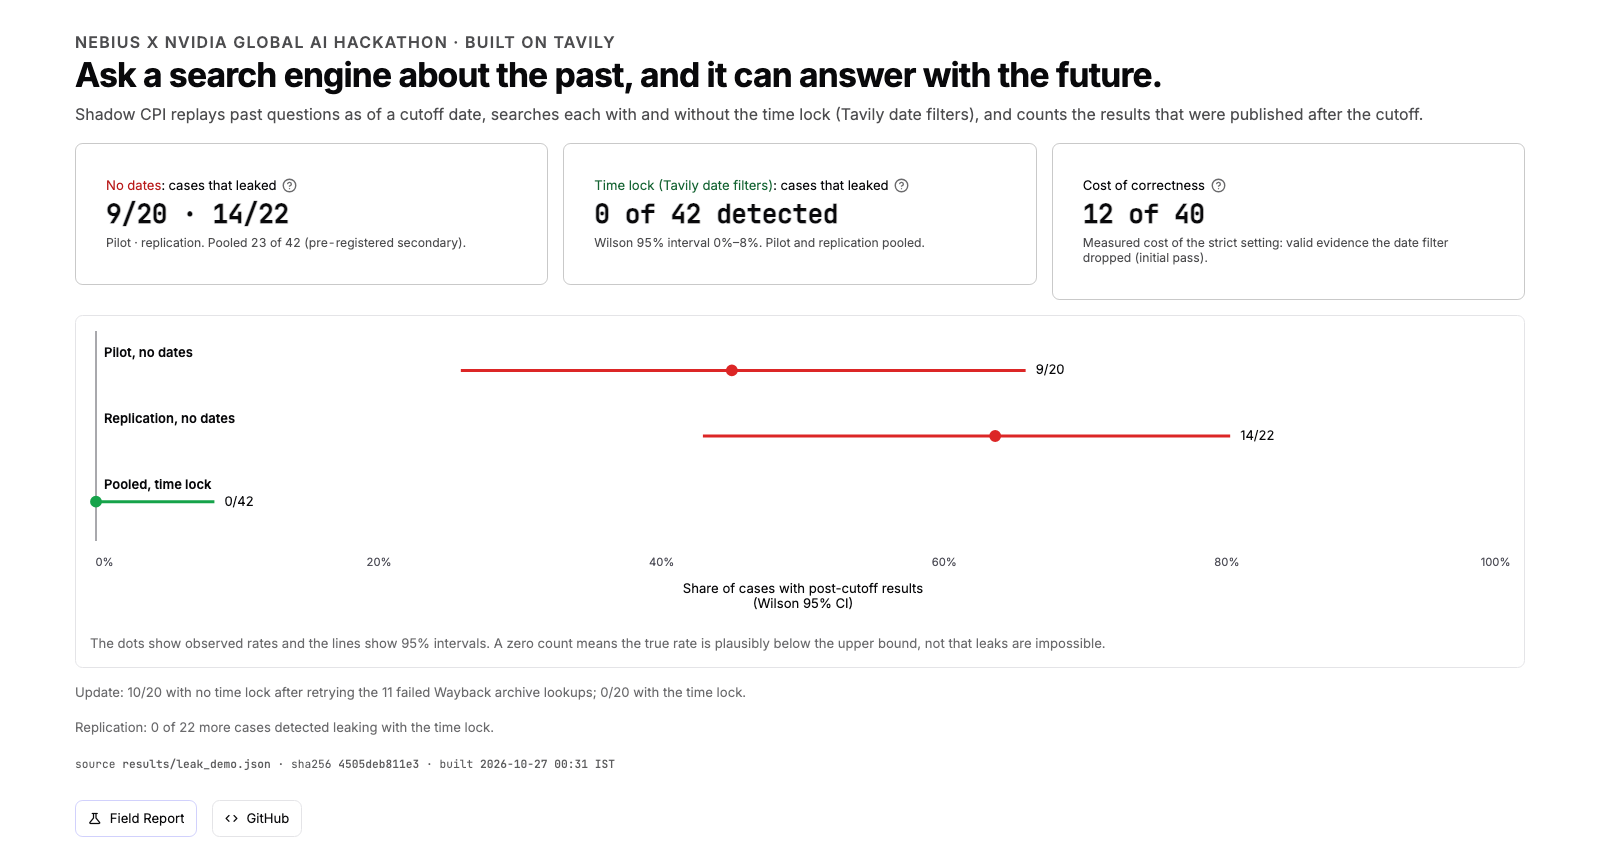
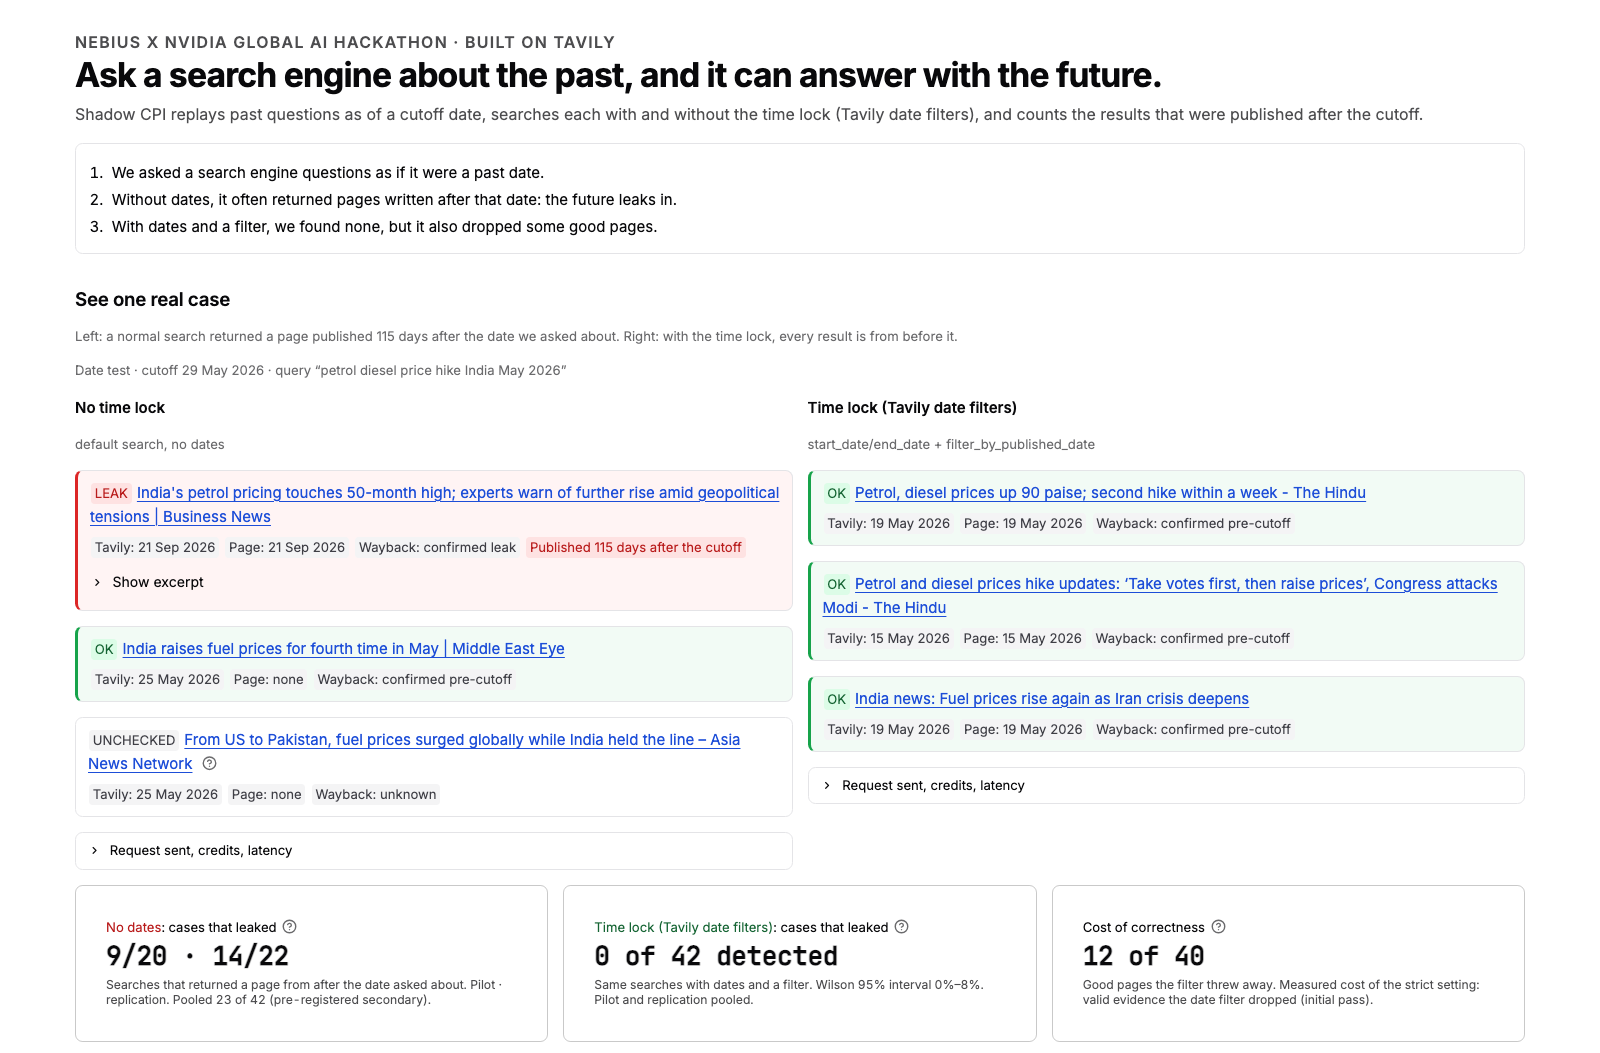
Leak demo: read as a story (plain-words box, one real case, captioned cards, chart lead-in, 'For developers'); gallery shot regenerated (display only)

diff --git a/app_pages/leak_demo.py b/app_pages/leak_demo.py
@@ -165,14 +165,26 @@ def search_column(col, title, note, s, test, key):
                        f"`{s['request_id']}`")
 
 
-def show_case(c):
-    st.markdown(f"#### {case_title(c)} {case_id(c)}")
+def show_case(c, slot="", heading=True):
+    """One case, both searches side by side. `slot` keeps widget keys unique when a case shows twice."""
+    if heading:
+        st.markdown(f"#### {case_title(c)} {case_id(c)}")
     st.caption(f"{c['test_name'].capitalize()} · cutoff {human(c['cutoff'])} · query “{c['query']}”"
                + (" · Page dates not read in the finance check." if c["test"] == "finance" else ""))
     left, right = st.columns(2)
-    search_column(left, OPEN, OPEN_NOTE, c["open"], c["test"], f"{c['id']}-open")
-    search_column(right, LOCKED, LOCKED_NOTE, c["locked"], c["test"], f"{c['id']}-locked")
+    search_column(left, OPEN, OPEN_NOTE, c["open"], c["test"], f"{slot}{c['id']}-open")
+    search_column(right, LOCKED, LOCKED_NOTE, c["locked"], c["test"], f"{slot}{c['id']}-locked")
 
+
+PLAIN_WORDS = ("1. We asked a search engine questions as if it were a past date.  \n"
+               "2. Without dates, it often returned pages written after that date: the future leaks in.  \n"
+               "3. With dates and a filter, we found none, but it also dropped some good pages.")
+CASE_CAPTION = ("Left: a normal search returned a page published {days} days after the date we asked about. "
+                "Right: with the time lock, every result is from before it.")
+CARD_CAPTIONS = ("searches that returned a page from after the date asked about", "same searches with dates and a filter",
+                 "good pages the filter threw away")
+CHART_LEAD = "**How sure are we?** Dots are what we saw; lines show the likely range, because the samples are small."
+DEVELOPERS = "For developers: add the time lock to your own Tavily calls"
 
 DATE_TEST = "results/date_field_test.json"
 DATE_LOCKED_ARM = "C"                         # tools/build_leak_demo.py TESTS["date"]["locked"]
@@ -202,7 +214,7 @@ def stat_cards(t):
     a, b, c = st.columns(3)
     with a:
         st.metric(":red[No dates]: cases that leaked", f"{o}/{n} · {rc['leak_cases']}/{rc['cases']}",
-                  delta=f"Pilot · replication. Pooled {pool['A']['leak_cases']} of {pool['A']['cases']} "
+                  delta=f"{CARD_CAPTIONS[0].capitalize()}. Pilot · replication. Pooled {pool['A']['leak_cases']} of {pool['A']['cases']} "
                         "(pre-registered secondary).",
                   delta_color="off", delta_arrow="off", border=True,
                   help="Cases where the plain search, with no date limits, returned a page the Wayback Machine shows "
@@ -212,14 +224,14 @@ def stat_cards(t):
                        "captured cannot be confirmed, and absence from Wayback is not proof it did not exist.")
     with b:
         st.metric(":green[Time lock (Tavily date filters)]: cases that leaked", f"{pk} of {pn} detected",
-                  delta=f"Wilson 95% interval {pct(lo)}–{pct(hi)}. Pilot and replication pooled.",
+                  delta=f"{CARD_CAPTIONS[1].capitalize()}. Wilson 95% interval {pct(lo)}–{pct(hi)}. Pilot and replication pooled.",
                   delta_color="off", delta_arrow="off", border=True,
                   help="Cases where the search with start_date, end_date and filter_by_published_date still returned a "
                        "confirmed leak. Date test only; the finance check is never added to it. A zero count means "
                        "the true rate is plausibly below the upper bound, not that leaks are impossible.")
     with c:
         st.metric("Cost of correctness", f"{lost} of {valid}",
-                  delta="Measured cost of the strict setting: valid evidence the date filter dropped (initial pass).",
+                  delta=f"{CARD_CAPTIONS[2].capitalize()}. Measured cost of the strict setting: valid evidence the date filter dropped (initial pass).",
                   delta_color="off", delta_arrow="off", border=True,
                   help="Of the valid results the plain search found in the date test, how many the dated search did "
                        "not return. This is the date test's own pre-registered initial pass, separate from the "
@@ -262,6 +274,7 @@ def interval_chart(t):
         x=alt.value(0), text="Group:N", tooltip=tip)
     end = base.mark_text(align="left", baseline="middle", dx=10, fontSize=13, color=ink).encode(
         x="hi:Q", text="label:N", tooltip=tip)
+    st.markdown(CHART_LEAD)
     with st.container(border=True, key="interval-chart"):
         altair_chart((zero + rule + dot + name + end).properties(height=300).configure_view(stroke=None),
                         width="stretch")
@@ -413,7 +426,7 @@ def pick_cases(cases, shown):
         st.caption(f"Default: {EXAMPLES.format(n=len(cases))}. Rule: {EXAMPLE_RULE}. Cases that qualify: "
                    f"{', '.join(shown)}" + (" (only one qualifies, so one is shown)." if len(shown) == 1 else "."))
     if mode == rec:
-        return shown
+        return [x for x in shown if x != FIRST] or shown
     return [st.selectbox("Case", list(by_id), format_func=lambda k: f"{case_title(by_id[k])} · {k}")]
 
 
@@ -422,6 +435,13 @@ data = read_json("results/leak_demo.json")
 if not data:
     st.info("Not built yet: run `python tools/build_leak_demo.py` (offline, 0 credits).")
     st.stop()
+by_id = {c["id"]: c for c in data["cases"]}
+with st.container(border=True, key="plain-words"):
+    st.markdown(PLAIN_WORDS)
+st.subheader("See one real case")
+f3 = by_id[FIRST]
+st.caption(CASE_CAPTION.format(days=next(r["days_after_cutoff"] for r in f3["open"]["results"] if r["leak"])))
+show_case(f3, slot="top-", heading=False)
 with st.container(key="hero"):
     stat_cards(data["totals"])
 interval_chart(data["totals"])
@@ -431,12 +451,11 @@ links()
 st.caption("In the forecast pipeline, NVIDIA Nemotron on Nebius Token Factory screens pages and cites quotes; code checks each cited number on the page.")
 how_we_know(data)
 with st.container(key="use-it"):
-    st.markdown("**Use it**")
+    st.markdown(f"**{DEVELOPERS}**")
     st.code(USE_IT, language="python", wrap_lines=True)
     st.markdown(f"[`timelock/`]({GITHUB_URL}/tree/main/timelock) (standard library only) · "
                 f"[![Open in Colab](https://colab.research.google.com/assets/colab-badge.svg)]({COLAB}) "
                 "reproduce the leak with your own Tavily key")
-by_id = {c["id"]: c for c in data["cases"]}
 shown = examples(data["cases"])
 cases = pick_cases(data["cases"], shown)
 for tab, cid in zip(st.tabs([tab_label(by_id[x]) for x in cases]) if len(cases) > 1

diff --git a/tools/build_gallery.py b/tools/build_gallery.py
@@ -133,19 +133,23 @@ def render(page, markup, path):
 
 
 def first_screen(page, url, path):
-    """The default page as a visitor first sees it: eyebrow, claim, subhead, the three result cards and the interval
-    chart (pre-registered initial pass). Sidebar and toolbar hidden, as in the other app shot."""
+    """The default page as a visitor first sees it: eyebrow, claim, subhead, the plain-words box, one real case and the
+    three result cards with their captions. Sidebar and toolbar hidden, as in the other app shot."""
     sys.path.insert(0, str(ROOT))
     from app_pages.common import BRAND_LINE
     page.goto(url.rstrip("/") + "/", wait_until="networkidle")
     page.add_style_tag(content=HIDE_CHROME)
     page.get_by_role("heading", name=BRAND_LINE, exact=True).wait_for(timeout=60_000)
     page.locator('.st-key-hero [data-testid="stMetric"]').nth(2).wait_for(timeout=60_000)   # the third card has drawn
-    page.locator('.st-key-interval-chart canvas, .st-key-interval-chart svg').first.wait_for(timeout=60_000)
     page.wait_for_timeout(1500)                                    # web fonts and the theme sync settle
     page.evaluate("window.scrollTo(0, 0)")
-    # the crop ends just below the Field Report / GitHub button row (full width, no partial code block under it)
-    bottom = page.locator(".st-key-brand-links").bounding_box()
+    # the crop ends just below the three cards and their captions (the chart and the rest follow below). Streamlit
+    # scrolls inside its own container, so the viewport is made tall enough to hold the whole crop.
+    bottom = page.locator(".st-key-hero").bounding_box()
+    height = int(bottom["y"] + bottom["height"] + 12)
+    page.set_viewport_size({"width": W, "height": height})
+    page.wait_for_timeout(1500)
+    bottom = page.locator(".st-key-hero").bounding_box()
     page.screenshot(path=str(path), clip={"x": 0, "y": 0, "width": W, "height": int(bottom["y"] + bottom["height"] + 12)})
 
 

diff --git a/tests/test_leak_demo.py b/tests/test_leak_demo.py
@@ -224,8 +224,7 @@ def test_default_examples_follow_the_rule_f3_first_r1_out():
     assert at.selectbox[0].value == f"Recommended examples ({len(ids)})"
     assert ids[0] == "F3" and sorted(ids) == sorted(want) and "R1" not in ids
     assert not any("F3" in o for o in at.selectbox[0].options)            # no case IDs in the dropdown's labels
-    if len(ids) > 1:
-        assert len(at.tabs) == len(ids)
+    assert len(at.tabs) == (len(ids) - 1 if len(ids) > 2 else 0)           # F3 is the case shown above the cards
     at.selectbox[0].set_value(f"All {len(DATA['cases'])} cases").run()
     every = at.selectbox[1].options
     assert any(o.endswith(" · R1") for o in every) and any(o.endswith(" · M7") for o in every)
@@ -300,9 +299,19 @@ def test_use_it_block_matches_the_readme_example():
 
 
 def test_tab_labels_are_short():
-    at = page()
-    labels = [t.label for t in at.tabs]
-    assert labels[:2] == ["Petrol hike · May 26 :gray[:small[F3]]", "RBI rate · Apr 26 :gray[:small[R2]]"]
+    """tab_label() read from the page source (the page runs on import): short item, month, small grey case ID."""
+    import ast
+    from datetime import date
+    src = (ROOT / "app_pages" / "leak_demo.py").read_text()
+    tree = ast.parse(src)
+    ns = {"date": date}
+    for node in tree.body:
+        if isinstance(node, ast.Assign) and getattr(node.targets[0], "id", "") == "SHORT" or (
+                isinstance(node, ast.FunctionDef) and node.name in ("tab_label", "case_id")):
+            exec(compile(ast.Module([node], []), "leak_demo", "exec"), ns)
+    by_id = {c["id"]: c for c in DATA["cases"]}
+    labels = [ns["tab_label"](by_id[i]) for i in ("F3", "R2")]
+    assert labels == ["Petrol hike · May 26 :gray[:small[F3]]", "RBI rate · Apr 26 :gray[:small[R2]]"]
     assert all(len(re.sub(r":gray\[:small\[\w+\]\]", "", l).strip()) <= 22 for l in labels)
 
 

diff --git a/tests/test_sync_doc_numbers.py b/tests/test_sync_doc_numbers.py
@@ -202,7 +202,7 @@ def test_devpost_opens_with_the_finding_and_the_reuse(values):
 
 
 def test_gallery_images_and_captions():
-    """docs/gallery: four 1600 px wide PNGs (1600x900, except the two app shots, cropped: the opening screen just below its button row, the four-arm table just below its verdict line),
+    """docs/gallery: four 1600 px wide PNGs (1600x900, except the two app shots, cropped: the opening screen just below its three cards, the four-arm table just below its verdict line),
     each shown in the captions file; the R196 caption matches the asof demo."""
     from PIL import Image
     readme = (ROOT / "docs/gallery/README.md").read_text()
@@ -210,7 +210,7 @@ def test_gallery_images_and_captions():
     assert len(pngs) == 4
     for p in pngs:
         w, h = Image.open(p).size
-        assert w == 1600 and (h == 900 or (p.name == "1_leak_demo.png" and 600 <= h <= 900)
+        assert w == 1600 and (h == 900 or (p.name == "1_leak_demo.png" and 600 <= h <= 1100)
                              or (p.name == "2_four_arm_table.png" and 250 <= h <= 400)), p.name
         assert f"]({p.name})" in readme, p.name
     demo = S.load("results/asof_demo_r196.json")

diff --git a/docs/templates/gallery.md b/docs/templates/gallery.md
@@ -6,7 +6,7 @@ cropped to their content, so they are shorter. The two app shots and both diagra
 `python tools/sync_doc_numbers.py` (edit `docs/templates/gallery.md`, not this file).
 
 ## The opening screen
-![Leak demo, the app's opening screen: the headline claim, three result cards and the interval chart](1_leak_demo.png)
+![Leak demo, the app's opening screen: the headline claim, a plain-words box, one real case and the three result cards](1_leak_demo.png)
 
 **Ask a search engine about the past, and it can answer with the future.** The app's opening screen. Date test (pilot, {{dt_cases}} past
 cases, the pre-registered initial pass): with no dates, {{dt_nodates}} of {{dt_cases}} cases kept a confirmed leak, a
@@ -18,7 +18,7 @@ filter dropped {{dt_lost_filter}} of {{dt_valid_total}} pieces of valid evidence
 (pre-registered, {{rep_cases}} new cases, initial pass): no dates {{rep_nodates}} of {{rep_cases}}, dates + filter
 {{rep_dated}} of {{rep_cases}} detected ({{rep_dated_w}}); pilot and replication together, same rule: {{pool_dated}} of
 {{pool_cases}} detected with dates + filter ({{pool_dated_w}}). Three cards (no dates, time lock (Tavily date filters),
-cost of correctness) and a dot-and-interval chart of the same counts. App page: Leak demo (home). Source: `results/leak_demo.json`,
+cost of correctness), with the dot-and-interval chart of the same counts just below. App page: Leak demo (home). Source: `results/leak_demo.json`,
 `results/field_report.json`, `results/replication.json`.
 
 ## The four-arm table

diff --git a/docs/gallery/README.md b/docs/gallery/README.md
@@ -7,7 +7,7 @@ cropped to their content, so they are shorter. The two app shots and both diagra
 `python tools/sync_doc_numbers.py` (edit `docs/templates/gallery.md`, not this file).
 
 ## The opening screen
-![Leak demo, the app's opening screen: the headline claim, three result cards and the interval chart](1_leak_demo.png)
+![Leak demo, the app's opening screen: the headline claim, a plain-words box, one real case and the three result cards](1_leak_demo.png)
 
 **Ask a search engine about the past, and it can answer with the future.** The app's opening screen. Date test (pilot, 20 past
 cases, the pre-registered initial pass): with no dates, 9 of 20 cases kept a confirmed leak, a
@@ -19,7 +19,7 @@ filter dropped 12 of 40 pieces of valid evidence (initial pass). Replication
 (pre-registered, 22 new cases, initial pass): no dates 14 of 22, dates + filter
 0 of 22 detected (0–15%); pilot and replication together, same rule: 0 of
 42 detected with dates + filter (0–8%). Three cards (no dates, time lock (Tavily date filters),
-cost of correctness) and a dot-and-interval chart of the same counts. App page: Leak demo (home). Source: `results/leak_demo.json`,
+cost of correctness), with the dot-and-interval chart of the same counts just below. App page: Leak demo (home). Source: `results/leak_demo.json`,
 `results/field_report.json`, `results/replication.json`.
 
 ## The four-arm table
